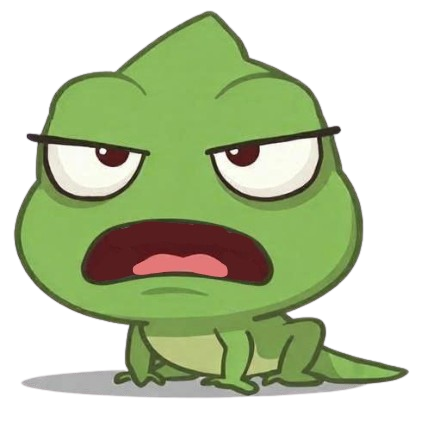
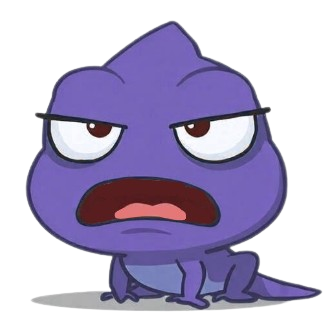
Color rebrand of Lingu

diff --git a/ai.py b/ai.py
@@ -1,0 +1,4 @@
+from flask import *
+
+app = Flask(__name__)
+
